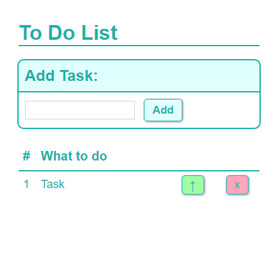
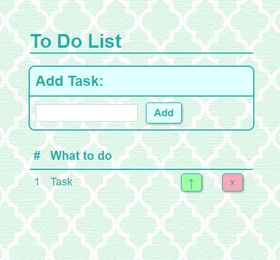
localStorage added

diff --git a/Portfolio/ToDo/todo.js b/Portfolio/ToDo/todo.js
@@ -1,7 +1,7 @@
 $(document).ready(function(){
 
     function ToDo (){
-        this.model = [
+        this.model = (localStorage.getItem('todoList')) ? JSON.parse(localStorage.getItem('todoList')):[
 //            {text: 'defaultTask'},
 //            {text: 'secondDefaultTask'},
         ];
@@ -10,9 +10,12 @@ $(document).ready(function(){
         this.list = $('.list');
         this.inputField = $('#inputField');
         
-//        this.init = function(){
-//        
-//        };
+        this.init = function(){
+            this.renderModel();
+            this.addTask();
+            this.removeTask();
+            this.raiseTask();
+        };
     };
 
     ToDo.prototype.addTask = function(){
@@ -21,10 +24,16 @@ $(document).ready(function(){
             var newTask = __self.inputField.val();    // alternative - document.forms["submitting"].elements["inputField"].value
             var index = __self.length + 1;
             __self.model.push({text: newTask});
+            __self.updateLocalStorage();
             __self.list.append('<tr><td>'+index+'</td><td>'+newTask+'</td><td><input class="up" type="button" data-index="'+index+'" value="&#8593"/></td><td><input class="delete" type="button" data-index="'+index+'" value="x"/></td></tr>');
             __self.length++;
             __self.inputField.val('');
-        });
+            
+        });        
+    };
+    
+    ToDo.prototype.updateLocalStorage = function () {
+        localStorage.setItem('todoList', JSON.stringify(__self.model));
     };
     
     ToDo.prototype.renderModel = function(){
@@ -45,6 +54,7 @@ $(document).ready(function(){
             __self.length--;
             __self.list.html('');
             __self.renderModel();
+            __self.updateLocalStorage();
         });
     };
     
@@ -53,7 +63,7 @@ $(document).ready(function(){
         $('.list').on('click', '.up', function(){
             var index = $(this).data('index') - 1;
             
-            if (index == 0){
+            if (index === 0){
                 alert('Oooops!');
             }
             else{
@@ -62,7 +72,7 @@ $(document).ready(function(){
                 __self.model[index-1] = __self.model[index];
                 delete __self.model[index];
                 __self.model[index] = tempPrevElem;
-
+                __self.updateLocalStorage();
                 __self.list.html('');
                 __self.renderModel();
             }
@@ -71,10 +81,8 @@ $(document).ready(function(){
   
     
     var toDo = new ToDo();  // window.todo = new ToDo(); ????
-//    toDo.init();            // window.todo = new ToDo(); ????
-    toDo.addTask();
-    toDo.removeTask();
-    toDo.raiseTask();
-//    toDo.renderModel();
+    toDo.init();            // window.todo = new ToDo(); ????
     
 });
+
+

diff --git a/Portfolio/ToDo/style.css b/Portfolio/ToDo/style.css
@@ -1,5 +1,5 @@
 body{
-	background-image: url(ToDo_backround.png);
+	background-image: url(ToDo_background.png);
 	background-repeat: no-repeat;
 }
 
